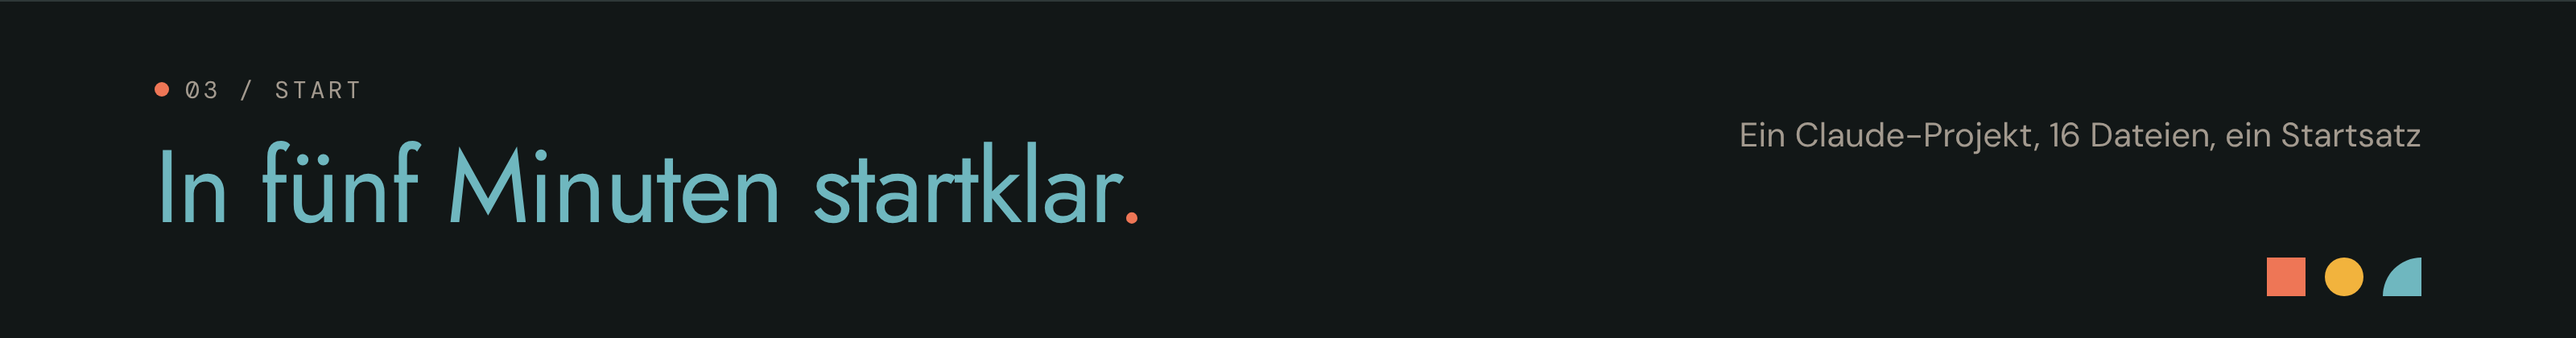
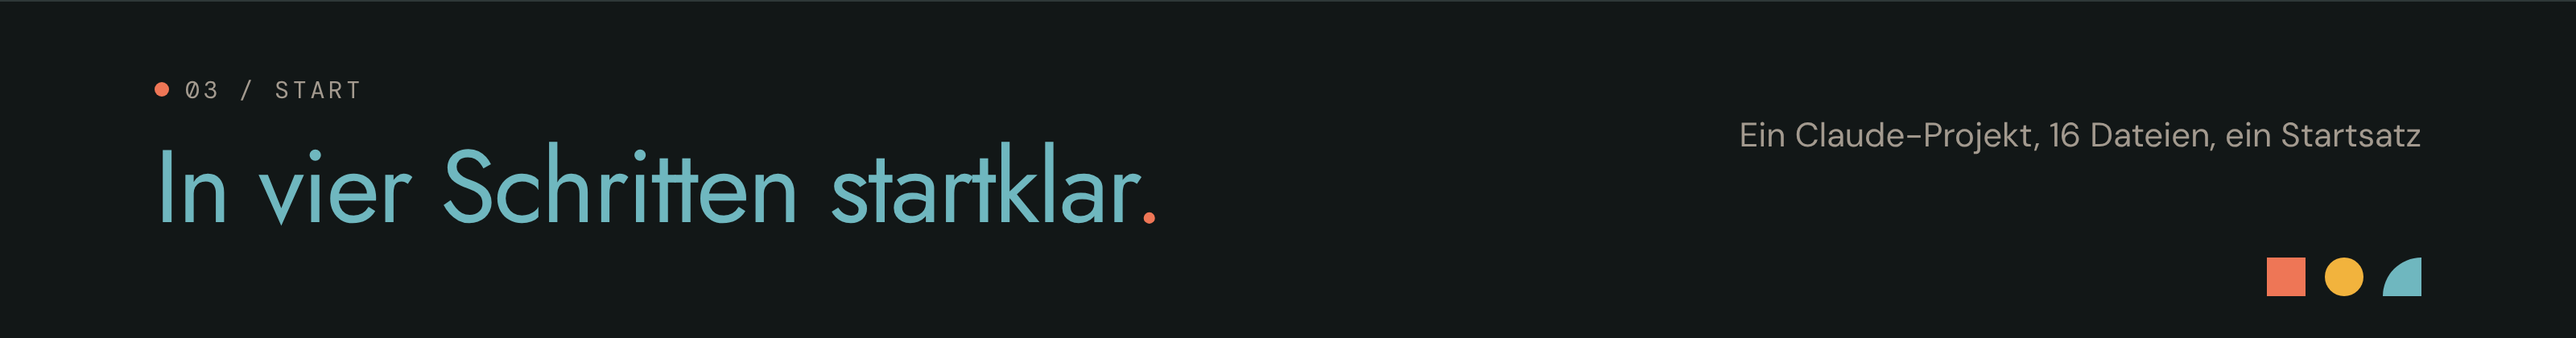
Schritt 2: Anweisung direkt beim Anlegen des Projekts einfügen
Claude-Session: https://claude.ai/code/session_01P8M2Pc2zSY2cAXJPUySoyq

Changed region(s): [[0.0938, 0.4024, 0.4688, 0.681]]

diff --git a/README.md b/README.md
@@ -18,7 +18,7 @@
 ![Lovable](https://img.shields.io/badge/gebaut%20mit-Lovable-1F6F78?style=flat-square)
 ![Lizenz](https://img.shields.io/badge/Lizenz-MIT-6E655B?style=flat-square)
 
-[Worum es geht](#worum-es-geht) · [Ablauf](#der-weg-in-elf-phasen) · [Start](#in-fünf-minuten-startklar) · [Führung](#so-führt-dich-claude) · [Phasen](#alle-phasen-im-detail) · [Ergebnis](#was-am-ende-entsteht) · [Lehre](#für-dozentinnen-und-dozenten)
+[Worum es geht](#worum-es-geht) · [Ablauf](#der-weg-in-elf-phasen) · [Start](#in-vier-schritten-startklar) · [Führung](#so-führt-dich-claude) · [Phasen](#alle-phasen-im-detail) · [Ergebnis](#was-am-ende-entsteht) · [Lehre](#für-dozentinnen-und-dozenten)
 
 </div>
 
@@ -69,10 +69,10 @@ Fünf Werkzeuge, ein Ablauf. Claude plant mit dir, ein Design-Werkzeug gestaltet
 
 <br>
 
-<a id="in-fünf-minuten-startklar"></a>
+<a id="in-vier-schritten-startklar"></a>
 <picture>
   <source media="(prefers-color-scheme: dark)" srcset="assets/img/h-start-dark.png">
-  <img src="assets/img/h-start-light.png" alt="03 In fünf Minuten startklar" width="100%">
+  <img src="assets/img/h-start-light.png" alt="03 In vier Schritten startklar" width="100%">
 </picture>
 
 Du brauchst ein Konto bei [claude.ai](https://claude.ai) und später eins bei [lovable.dev](https://lovable.dev).
@@ -81,19 +81,27 @@ Du brauchst ein Konto bei [claude.ai](https://claude.ai) und später eins bei [l
 
 Oben auf **Code → Download ZIP** klicken und die ZIP-Datei entpacken. Du brauchst den Ordner [`projekt-dateien`](projekt-dateien).
 
-### 2 · Claude-Projekt anlegen
+### 2 · Claude-Projekt anlegen und Anweisung einfügen
 
-In Claude links auf **Projekte**, dann auf **Neues Projekt**. Gib ihm einen Namen, zum Beispiel den deiner App.
+In Claude links auf **Projekte**, dann auf **Neues Projekt**. Es öffnet sich das Fenster „Projekt erstellen“:
+
+| Feld | Was du einträgst |
+|---|---|
+| **Woran arbeitest du?** | Ein Name für dein Projekt, zum Beispiel der deiner App |
+| **Was möchtest du erreichen?** | Den kompletten Text aus [`00 - Projektanweisung (System-Prompt).md`](projekt-dateien/00%20-%20Projektanweisung%20%28System-Prompt%29.md) |
+
+Dann auf **Projekt erstellen** klicken.
 
 <img src="assets/screens/02-projekt-erstellen.png" alt="Dialog Projekt erstellen in Claude" width="520">
 
-### 3 · Anweisungen einfügen
-
-Öffne [`00 - Projektanweisung (System-Prompt).md`](projekt-dateien/00%20-%20Projektanweisung%20%28System-Prompt%29.md), kopiere den kompletten Text und füge ihn im Projekt rechts unter **Anweisungen** ein.
+So sieht das Projekt danach aus. Oben steht der Anfang deiner Anweisung:
 
 <img src="assets/screens/06-anweisungen-gesetzt.png" alt="Projekt mit gesetzten Anweisungen" width="720">
 
-### 4 · Dateien hochladen
+> [!NOTE]
+> Hast du das Feld leer gelassen? Dann trägst du den Text rechts unter **Anweisungen** → **Hinzufügen** nach.
+
+### 3 · Dateien hochladen
 
 Rechts bei **Kontext** auf **Hinzufügen** und **Vom Gerät hochladen**. Lade alle Dateien aus `projekt-dateien` hoch, außer der Projektanweisung. Am Ende stehen dort 15 Dateien.
 
@@ -104,7 +112,7 @@ Rechts bei **Kontext** auf **Hinzufügen** und **Vom Gerät hochladen**. Lade al
 </tr>
 </table>
 
-### 5 · Ersten Chat starten
+### 4 · Ersten Chat starten
 
 Neuen Chat im Projekt öffnen und den Startsatz senden:
 
